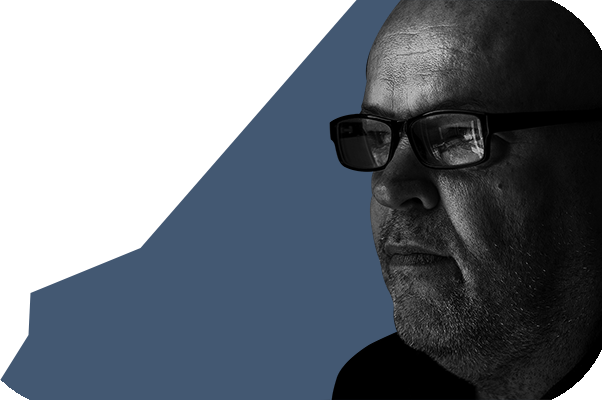
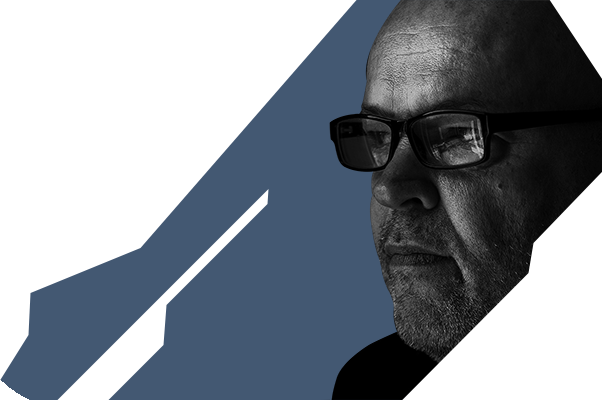
cleanup, improved home carasel

Changed region(s): [[0.6578, 0.42, 1.0, 1.0], [0.0897, 0.48, 0.4485, 1.0], [0.897, 0.0, 1.0, 0.21]]

diff --git a/src/components/digital/FeaturedReleases.tsx b/src/components/digital/FeaturedReleases.tsx
@@ -1,7 +1,7 @@
 import { useEffect, useState } from "react";
 import { collection, query, getDocs, orderBy } from "firebase/firestore";
 import { db } from "../../firebase";
-import { Container } from "react-bootstrap";
+import { Row } from "react-bootstrap";
 import FeaturedItem from "./FeaturedItem";
 import IRelease from "../../interfaces/IRelease";
 
@@ -29,24 +29,35 @@ export default function FeaturedReleases() {
   }, [featuredReleases]);
 
   return (
-    <Container style={{ textAlign: "left" }}>
-      {featuredReleases?.map((release: any, index: number) => {
-        return (
-          <div
-            key={index}
-            style={{
-              display: "flex",
-              flexDirection: "column",
-              gap: "10px",
-            }}
-          >
-            <FeaturedItem
-              release={release}
-              getFeaturedReleases={getFeaturedReleases}
-            />
-          </div>
-        );
-      })}
-    </Container>
+    <>
+      <Row
+        style={{
+          textAlign: "left",
+          borderBottom: "1px  #555 dashed",
+          paddingTop: "20px",
+        }}
+      >
+        <h2>New releases</h2>
+      </Row>
+      <Row style={{ textAlign: "left" }}>
+        {featuredReleases?.map((release: any, index: number) => {
+          return (
+            <div
+              key={index}
+              style={{
+                display: "flex",
+                flexDirection: "column",
+                gap: "10px",
+              }}
+            >
+              <FeaturedItem
+                release={release}
+                getFeaturedReleases={getFeaturedReleases}
+              />
+            </div>
+          );
+        })}
+      </Row>
+    </>
   );
 }

diff --git a/src/components/radioBanner/RadioBanner.tsx b/src/components/radioBanner/RadioBanner.tsx
@@ -5,7 +5,7 @@ export default function RadioBanner() {
     <Carousel
       fade={true}
       style={{
-        height: "400px",
+        height: "80vh",
         width: "100%",
       }}
     >
@@ -17,19 +17,28 @@ export default function RadioBanner() {
         }}
       >
         <img
-          src="../../img/bannerTest1.png"
-          style={{ height: "400px", opacity: 0.45 }}
+          // src="../../img/bannerTest1.png"
+          style={{ height: "80vh", opacity: 0.95 }}
         />
         <Carousel.Caption
           style={{
             textAlign: "left",
             alignItems: "center",
-            height: "400px",
+            height: "80vh",
             display: "flex",
           }}
         >
-          <div style={{ display: "flex", flexDirection: "column", gap: "0" }}>
-            <h1 style={{ lineHeight: "0.8em" }}>RECOVERWORLD RADIO</h1>
+          <div
+            style={{
+              display: "flex",
+              flexDirection: "column",
+              gap: "0",
+              maxWidth: "350px",
+            }}
+          >
+            <h1 style={{ lineHeight: "0.8em", overflowWrap: "break-word" }}>
+              RECOVERWORLD RADIO
+            </h1>
             <h3 style={{ lineHeight: "0.8em" }}>Every Friday @ 22:00GMT</h3>
             <h4 style={{ lineHeight: "0.8em" }}>With Chris Hampshire</h4>
           </div>

diff --git a/src/components/utility/AmpsuiteXMLReleaseParser.tsx b/src/components/utility/AmpsuiteXMLReleaseParser.tsx
@@ -22,6 +22,7 @@ export default function AmpsuiteXMLReleaseParser() {
 
   // Get Ampsuite XML by AmpSuite Id
   useEffect(() => {
+    let url = `https://${process.env.REACT_APP_AMPSUITE_SUBDOMAIN}.ampsuite.com/xml/releases?cid=${process.env.REACT_APP_AMPSUITE_CID}&id=${ampsuiteId}`;
     axios
       .get(
         `https://recoverworld.ampsuite.com/xml/releases?cid=10&id=${ampsuiteId}`,
